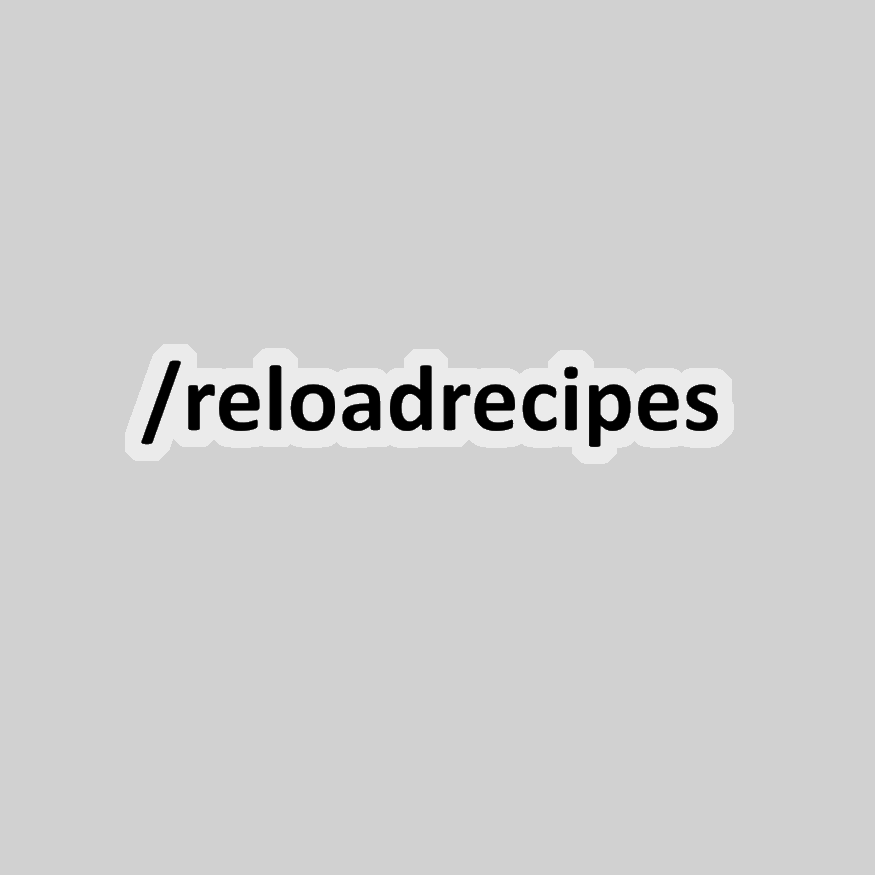
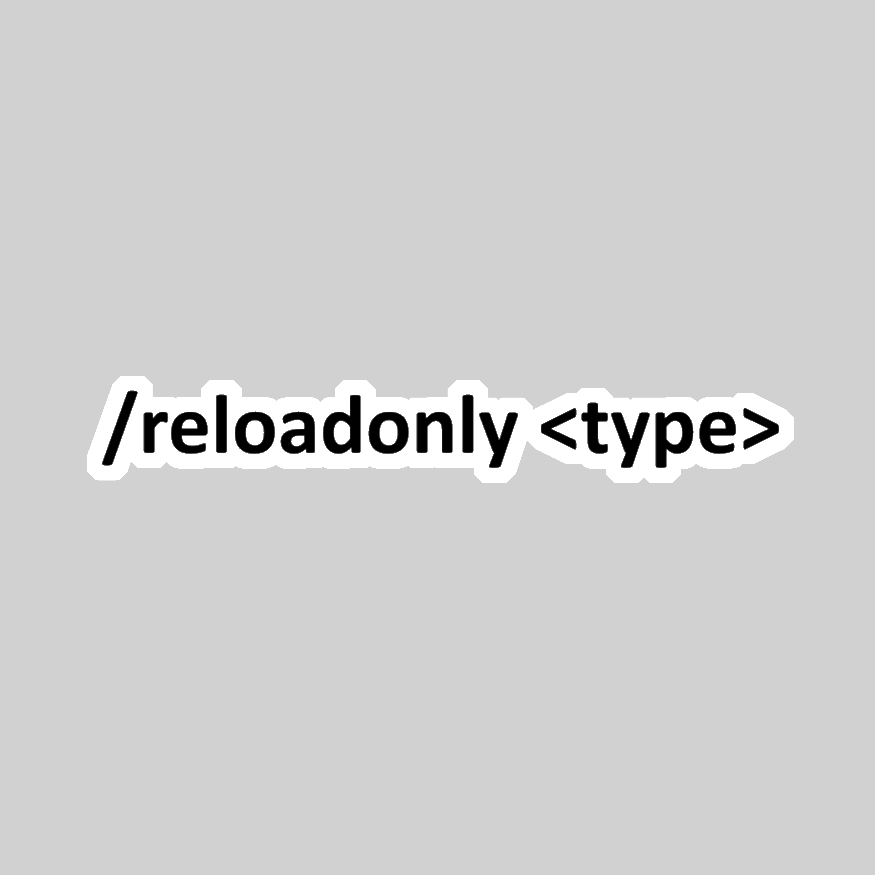
feat: 更新图标以增强用户界面体验

Changed region(s): [[0.0926, 0.3703, 0.9257, 0.5554]]

diff --git a/docs/curseforge-description.md b/docs/curseforge-description.md
@@ -1,0 +1,131 @@
+<!-- CurseForge description · Markdown · English + 中文 -->
+
+# Reload Only Data
+
+Selectively hot-reload individual datapack content types — **recipes, advancements, tags, loot, functions**, and (experimental) **registries** — each on demand, without the heavy cost of a full `/reload` in large modpacks. Recipe reloading additionally integrates with **KubeJS** runtime script edits (KubeJS 6 on Forge / KubeJS 7 on NeoForge).
+
+> Dual-loader build (Stonecutter): **Minecraft 1.20.1 / Forge** and **Minecraft 1.21.1 / NeoForge**. The project started as "reload recipes only" and has since generalized into a selective-reload framework; `/reloadrecipes` is kept as a backwards-compatible shortcut.
+
+## Supported Versions
+
+| Loader | Minecraft | Loader | Java | KubeJS (optional) |
+|---|---|---|---|---|
+| Forge | 1.20.1 | 47.4.4+ | 17 | 6.x |
+| NeoForge | 1.21.1 | 21.1.234+ | 21 | 7.x |
+
+**KubeJS is optional.** Without it, the Vanilla strategy is used; with it, the matching 6.x / 7.x compatibility layer is enabled automatically per platform.
+
+## Commands
+
+All commands require OP (permission level 2). Unified entry `/reloadonly <target> [arg]`, with `/reloadrecipes` kept as a shortcut for the **recipes** target.
+
+| Command | Content | Client sync |
+|---|---|---|
+| `/reloadrecipes` | Recipes (KubeJS-aware) | Yes — recipes + recipe book |
+| `/reloadonly recipes` | Recipes (KubeJS-aware) | Yes |
+| `/reloadonly advancements` | Advancements | Yes — rebuild + per-player recompute |
+| `/reloadonly tags <registry>` | Tags of one registry (e.g. `minecraft:item`) | Yes |
+| `/reloadonly loot` | Loot tables + predicates + item modifiers | No — server-side |
+| `/reloadonly functions` | Functions (`.mcfunction`) | No — server-side |
+| `/reloadonly registry <key> [confirm]` | A single datapack registry (experimental) | Reconnect required |
+
+Both the `<target>` and argument fields have Brigadier tab-completion. Unknown or unsupported targets are clearly rejected (no fake success). Feedback is localized (en_us / zh_cn), e.g. "Reloaded N recipes in T ms".
+
+**JEI / REI / EMI auto-refresh:** the **recipes** and **tags** targets send sync packets that trigger the recipe viewer to reload automatically.
+
+## Registry Hot-Reload (New · Experimental)
+
+`/reloadonly registry <registryKey> [confirm]` hot-reloads a single datapack registry *in place*: the existing registry object and its Holders are **updated, not replaced**, so consumers that cached the old Holder at world load (e.g. damage sources) immediately see the new values, and the world save is never touched.
+
+- **Leaf registries only** — runtime-queried types such as `damage_type`, `enchantment` (1.21+), `trim_pattern`, `trim_material`, `banner_pattern`, etc.
+- **Generation-baked registries are blacklisted** — `worldgen/*` (biome, structure, density_function, noise_settings, …) and `dimension_type` are refused, because their new values cannot retroactively change data already baked into existing chunks.
+- **Clients must reconnect** — client-side registries only sync on join. The command warns first and requires a trailing `confirm`; after reloading, players are told to reconnect to see the change.
+
+## Compatibility
+
+*The KubeJS / JEI notes below apply to the **recipes** target — recipes is the only target that goes through KubeJS; advancements / tags / loot / functions use Vanilla logic.*
+
+- **Vanilla / plain-JSON recipes** (vanilla, mod-jar built-ins, world datapacks): fully reloaded, including custom RecipeTypes from Create / Mekanism and similar (types are registered at startup and unaffected).
+- **KubeJS**: the command replays KubeJS's script-reload step before triggering apply, so script recipes are picked up automatically — Forge uses KubeJS 6, NeoForge uses KubeJS 7. If the compat layer errors, it falls back to the Vanilla strategy with a warning.
+- **JEI / REI / EMI**: `/reloadrecipes` sends both the tags and recipes sync packets so recipe viewers auto-refresh (JEI requires both `TagsUpdatedEvent` and `RecipesUpdatedEvent` in the same cycle). The extra tags packet carries unchanged tag data (no disk IO) and is used only to make viewers refresh.
+
+## Limitations
+
+- **Tag reload does not refresh downstream**: `/reloadonly tags <registry>` only rebinds that registry's tags; tag-based ingredients in already-loaded recipes stay cached. Run `/reloadrecipes` afterwards to apply.
+- **functions do not touch `#function` tags**: reload those separately if you changed function tags.
+- **KubeJS only covers recipes**: KubeJS script edits to other targets are not applied by this mod (they use Vanilla logic).
+- **Does not cover CraftTweaker-style mods** that register their own reload listeners via `AddReloadListenerEvent` — use their own reload command or a full `/reload`.
+- **Registry hot-reload is experimental**: leaf-only, blacklist-guarded, reconnect-to-see. On NeoForge + KubeJS 7, brand-new namespaces created at runtime may not be picked up (the KubeJS 7 file-pack namespace index is fixed at startup); editing existing namespaces works.
+
+## Dependencies
+
+- **Required**: Forge 47+ (Minecraft 1.20.1) *or* NeoForge 21.1+ (Minecraft 1.21.1).
+- **Optional**: KubeJS (6.x on Forge / 7.x on NeoForge) — enables runtime script recipe reloading. Not required for any Vanilla content.
+
+*Author: Tonywww*
+
+---
+
+# Reload Only Data（选择性数据重载）
+
+**按类型选择性重载数据包内容**——**配方 / 进度 / 标签 / 战利品 / 函数**，以及（实验性的）**注册表**——各自独立、按需重载，避免完整 `/reload` 在大型整合包下的巨大开销。配方重载额外兼容 **KubeJS** 运行时脚本修改（Forge 侧 6 代 / NeoForge 侧 7 代）。
+
+> 双加载器构建（Stonecutter）：**Minecraft 1.20.1 / Forge** 与 **Minecraft 1.21.1 / NeoForge**。项目起点是「只重载配方」，现已泛化为通用的选择性重载框架；`/reloadrecipes` 作为向后兼容的快捷别名保留。
+
+## 支持版本
+
+| 加载器 | Minecraft | 加载器版本 | Java | KubeJS（可选） |
+|---|---|---|---|---|
+| Forge | 1.20.1 | 47.4.4+ | 17 | 6 代 |
+| NeoForge | 1.21.1 | 21.1.234+ | 21 | 7 代 |
+
+**KubeJS 为可选。** 未安装时走原版（Vanilla）策略；安装后自动按平台启用 6/7 代兼容层。
+
+## 命令
+
+所有命令需 OP（权限等级 2）。统一入口 `/reloadonly <target> [arg]`，并保留 `/reloadrecipes` 作为 **recipes** 目标的快捷别名。
+
+| 命令 | 内容 | 客户端同步 |
+|---|---|---|
+| `/reloadrecipes` | 配方（含 KubeJS） | 是 —— 配方 + 配方书 |
+| `/reloadonly recipes` | 配方（含 KubeJS） | 是 |
+| `/reloadonly advancements` | 进度 | 是 —— 重建 + 每玩家重算 |
+| `/reloadonly tags <registry>` | 某 registry 的标签（如 `minecraft:item`） | 是 |
+| `/reloadonly loot` | 战利品表 + 谓词 + 物品修饰器 | 否 —— 纯服务端 |
+| `/reloadonly functions` | 函数（`.mcfunction`） | 否 —— 纯服务端 |
+| `/reloadonly registry <key> [confirm]` | 单个数据包注册表（实验性） | 需重新连接 |
+
+`<target>` 与参数均带 Brigadier 动态补全。未知或不支持的目标会明确拒绝（不伪装成功）。反馈支持中英双语（en_us / zh_cn），形如「已重载 N 条配方，耗时 T 毫秒」。
+
+**JEI / REI / EMI 自动刷新：** `recipes` 与 `tags` 目标会下发同步包，触发配方查看器自动重载。
+
+## 注册表热重载（新特性 · 实验性）
+
+`/reloadonly registry <registryKey> [confirm]` 就地热重载单个数据包注册表：**更新**现有注册表对象与其 Holder（而**非替换**），因此在世界加载时缓存了旧 Holder 的消费方（如伤害来源 DamageSources）会立即看到新值，且完全不触碰世界存档。
+
+- **仅限「叶子型」注册表** —— 运行时查询型，如 `damage_type`、`enchantment`（1.21+）、`trim_pattern`、`trim_material`、`banner_pattern` 等。
+- **生成固化型注册表列入黑名单** —— `worldgen/*`（生物群系、结构、密度函数、噪声设置……）与 `dimension_type` 一律拒绝，因为其新值无法追溯改变已固化到现有区块的旧数据。
+- **客户端需重新连接** —— 客户端注册表仅在加入时同步。命令会先警告并要求末尾加 `confirm`；重载后会提示玩家重连才能看到变化。
+
+## 兼容性
+
+*以下 KubeJS / JEI 说明仅针对 **recipes** 目标——recipes 是唯一走 KubeJS 兼容的目标；advancements / tags / loot / functions 均走原版逻辑。*
+
+- **原版 / 纯 JSON 配方**（原版、mod jar 内置、世界数据包）：完整重载，含 Create / Mekanism 等的自定义 RecipeType（类型在启动期注册、不受影响）。
+- **KubeJS**：命令会先复现 KubeJS 的脚本重载步骤再触发 apply，故脚本配方自动介入——Forge 用 KubeJS 6，NeoForge 用 KubeJS 7。兼容层异常时自动回落原版策略并告警。
+- **JEI / REI / EMI**：`/reloadrecipes` 会同时下发 tags 与 recipes 两个同步包，使配方查看器自动刷新（JEI 需在同一周期内同时观察到 `TagsUpdatedEvent` 与 `RecipesUpdatedEvent`）。额外的 tags 包内容不变、无磁盘 IO，仅用于触发查看器刷新。
+
+## 限制
+
+- **标签单独重载不刷新下游**：`/reloadonly tags <registry>` 只重绑该 registry 的标签；改了 item/block/fluid 标签后需接着执行 `/reloadrecipes` 才能让配方跟随。
+- **functions 不连带 `#function` 标签**：如同时改了函数标签，需另行重载。
+- **KubeJS 仅覆盖 recipes**：其余目标的 KubeJS 脚本修改本 mod 不生效（走原版逻辑）。
+- **不覆盖 CraftTweaker 等 mod**：它们通过 `AddReloadListenerEvent` 注册独立监听器——请用其自带重载或完整 `/reload`。
+- **注册表热重载为实验性**：仅叶子型、黑名单守卫、需重连。在 NeoForge + KubeJS 7 上，运行时新建的**全新命名空间**可能读不到（KubeJS 7 文件包命名空间索引在启动时固化）；修改**已有**命名空间正常。
+
+## 依赖
+
+- **必需**：Forge 47+（Minecraft 1.20.1）*或* NeoForge 21.1+（Minecraft 1.21.1）。
+- **可选**：KubeJS（Forge 6 代 / NeoForge 7 代）—— 启用运行时脚本配方重载；任何原版内容都不需要它。
+
+*作者：Tonywww*